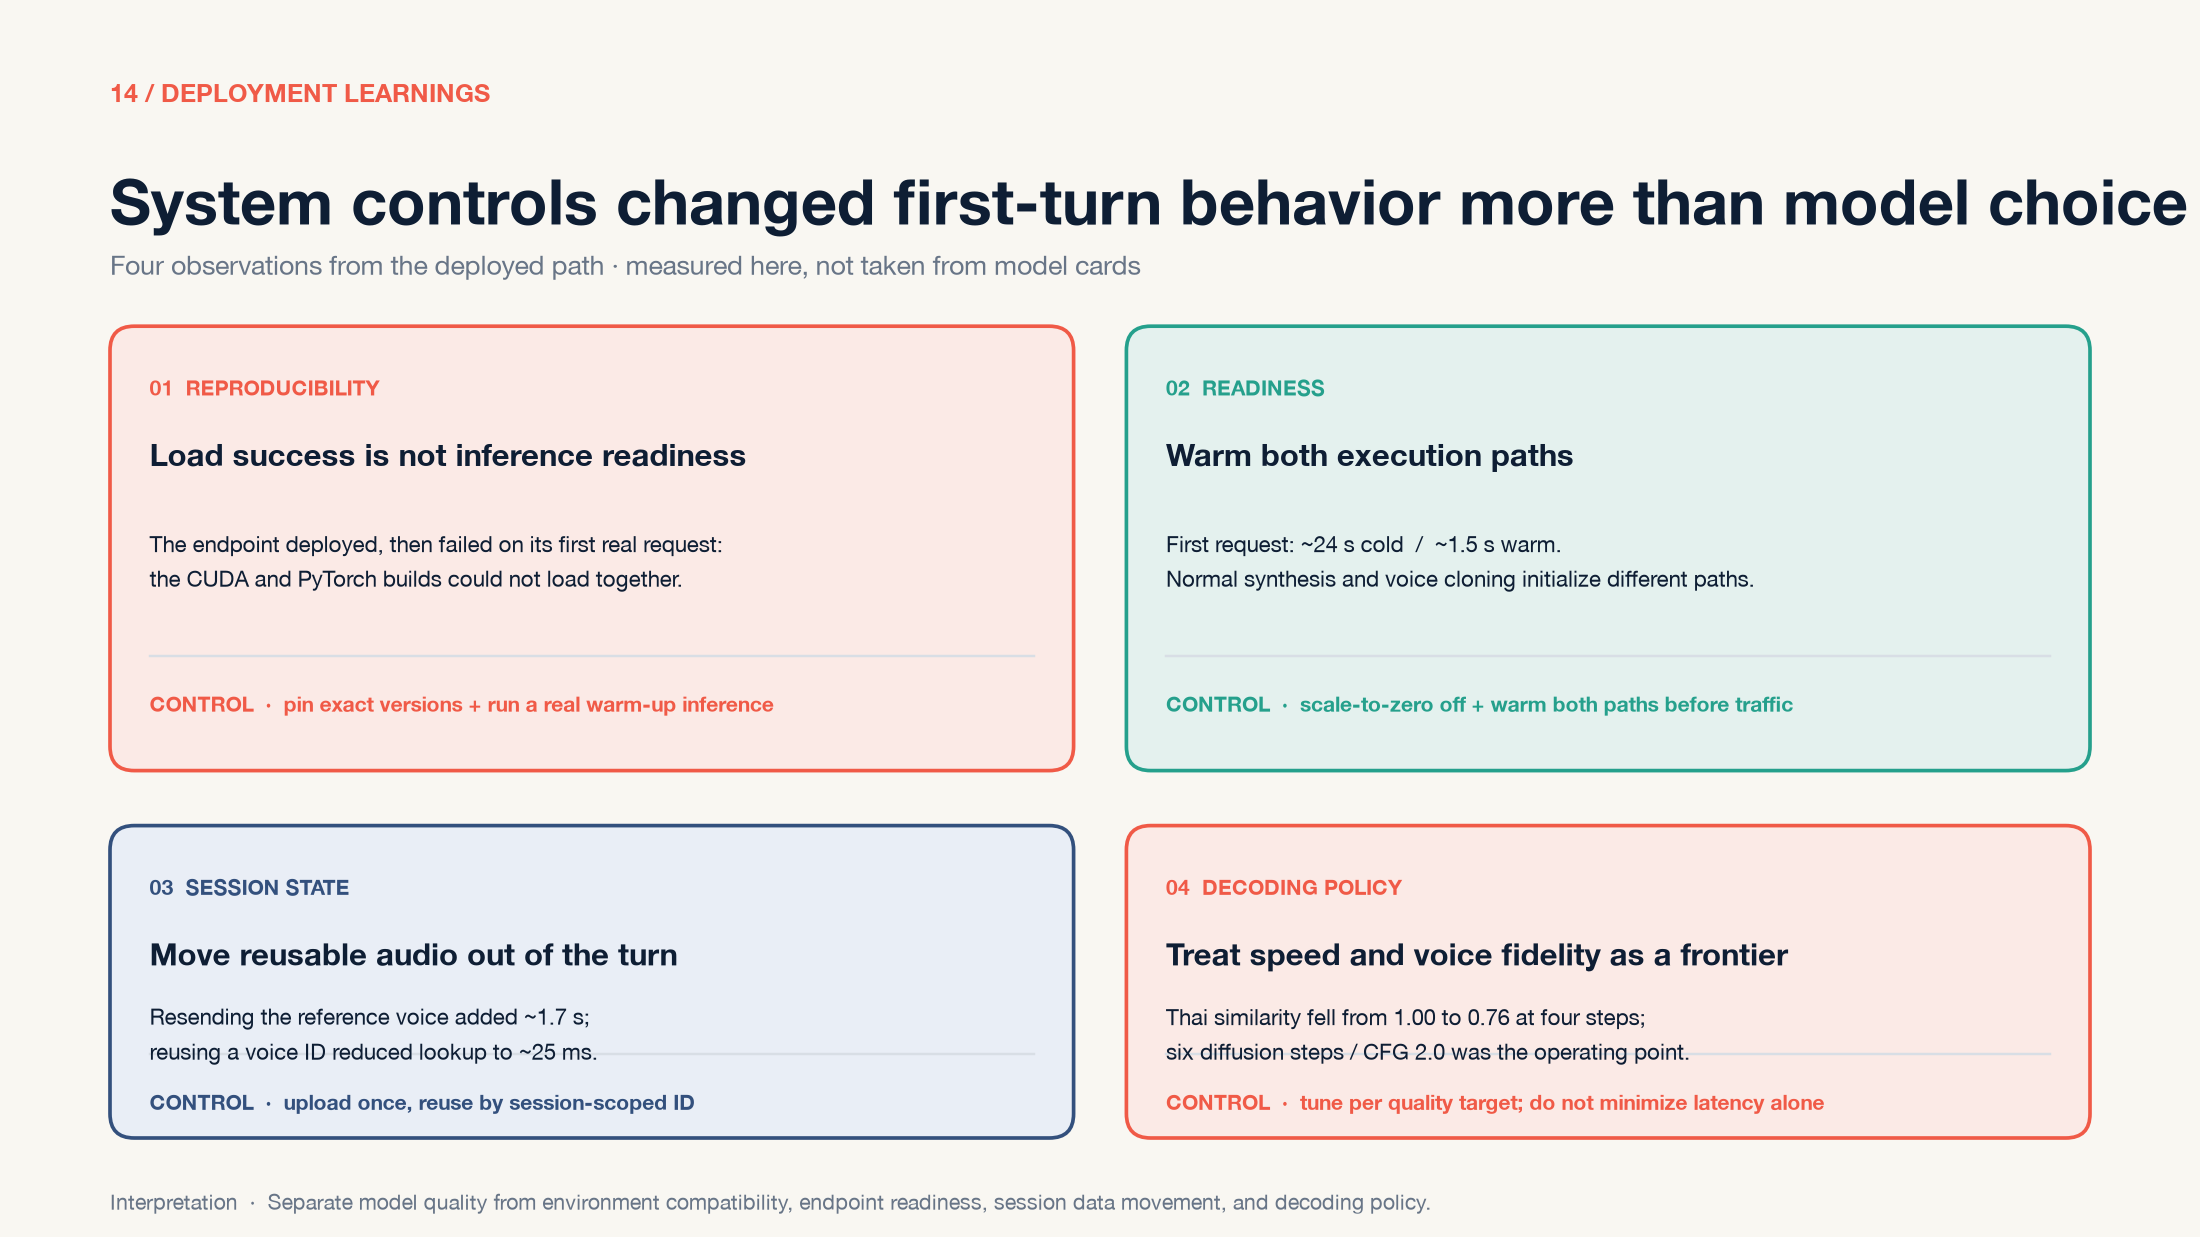
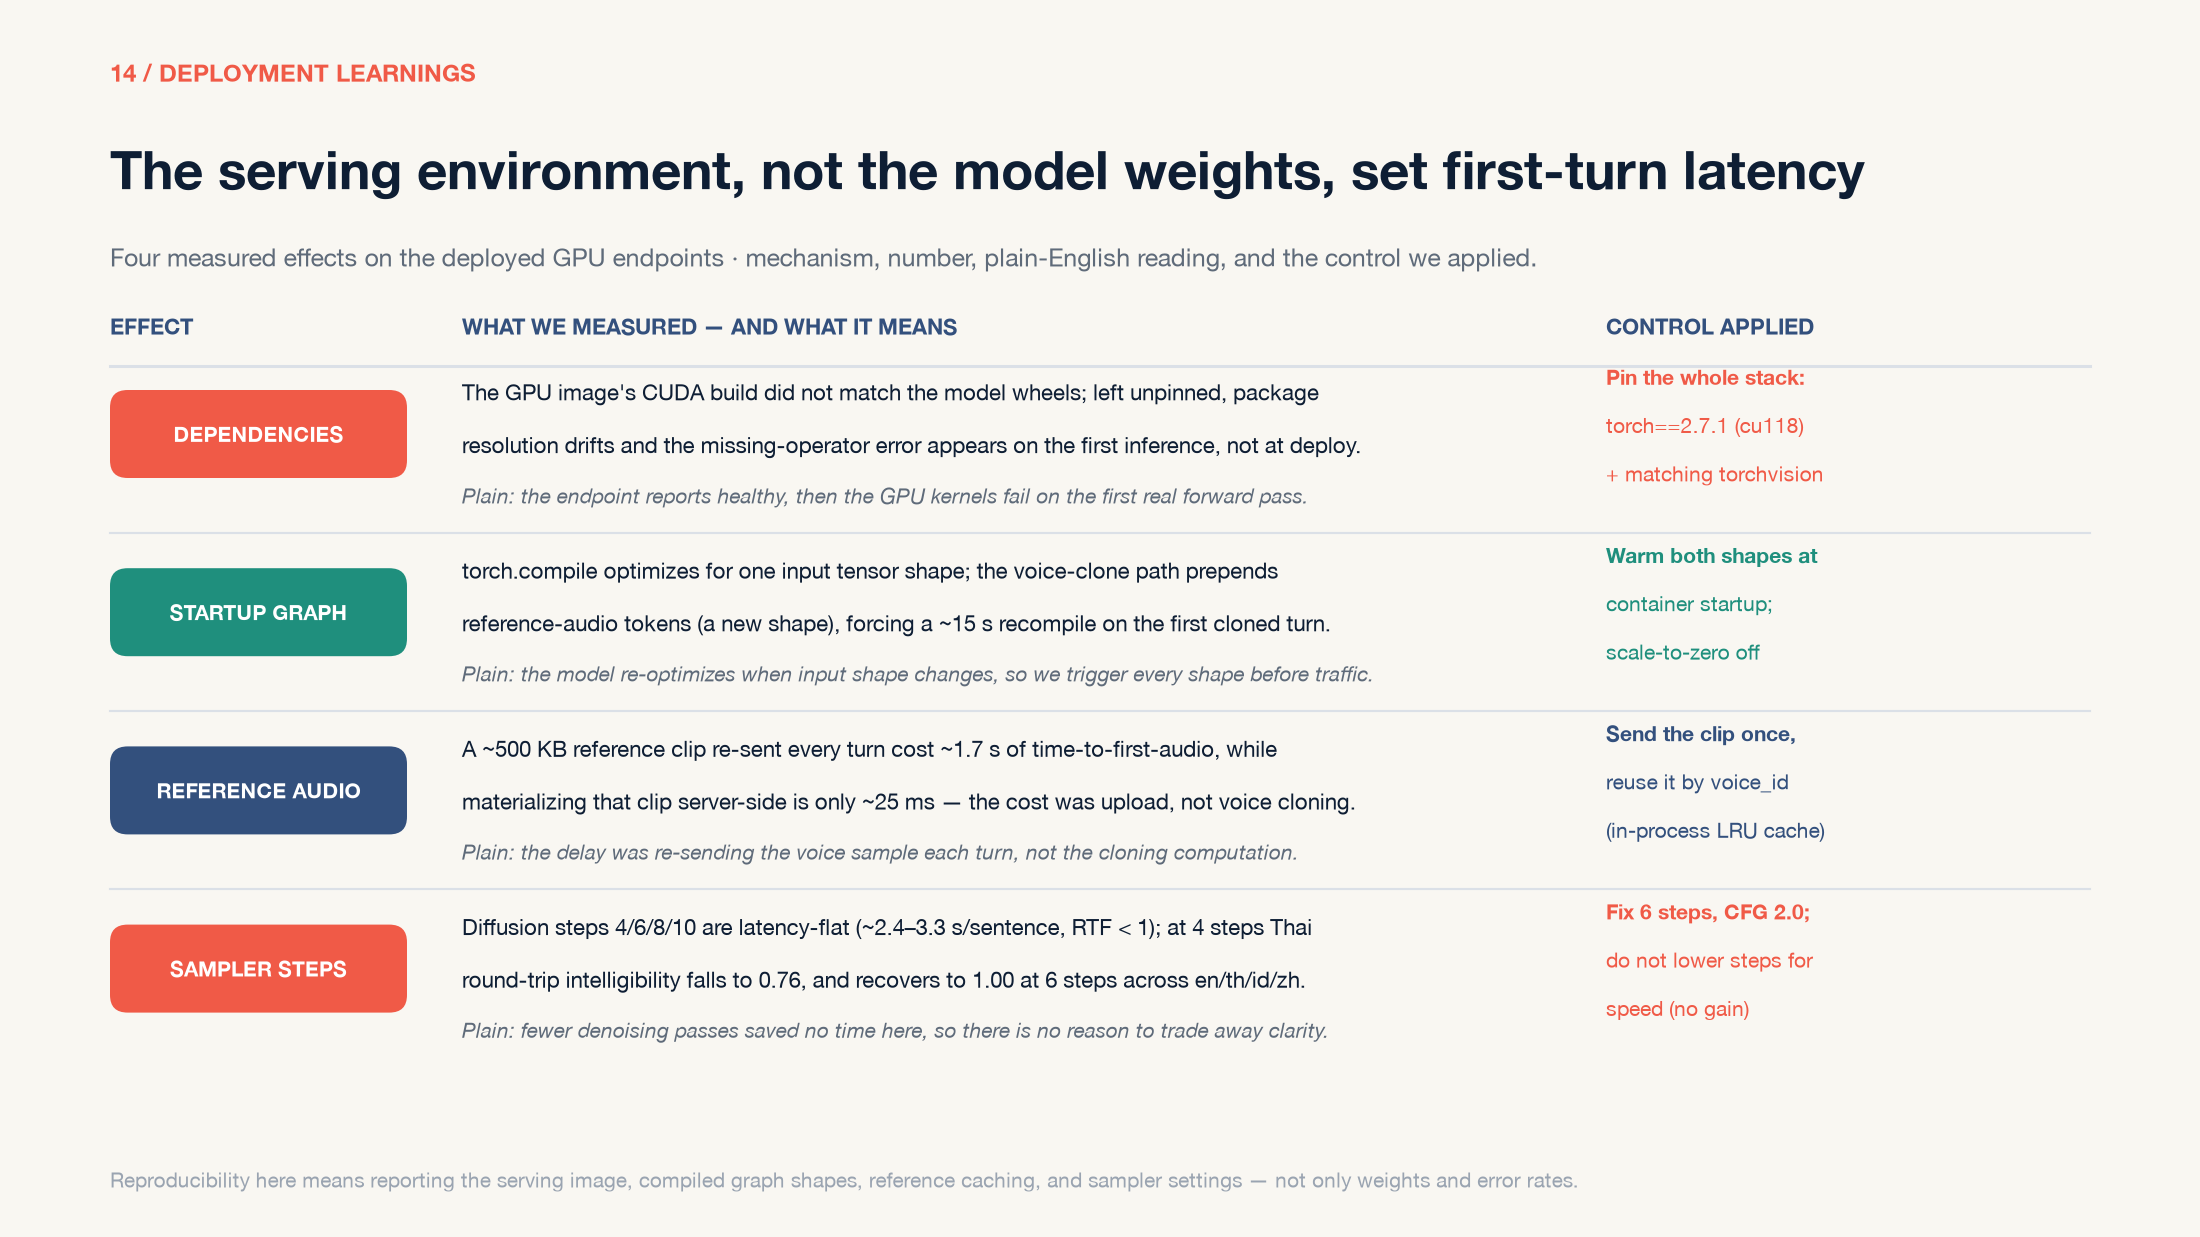
Rewrite deployment and guardrail slides with grounded technical depth

diff --git a/docs/talks/cohere-multilingual-voice/charts/render_operations_guardrails.py b/docs/talks/cohere-multilingual-voice/charts/render_operations_guardrails.py
@@ -1,4 +1,10 @@
-"""Render deployment-learning and guardrail slides for the Cohere research talk."""
+"""Render the deployment-learnings and runtime-guardrail slides.
+
+Both slides use a research-grade table layout: each row names the exact mechanism
+and the measured number, then glosses the technical term in plain English. All
+values are grounded in the repository (config/config.yaml, scripts/ml_asr/*, the
+realtime_api runtime, and docs/blog/powering-genie-with-open-source-voice-models.md).
+"""
 
 from pathlib import Path
 
@@ -8,195 +14,169 @@ matplotlib.use("Agg")
 
 import matplotlib.pyplot as plt
 from matplotlib import font_manager
-from matplotlib.patches import FancyArrowPatch, FancyBboxPatch
+from matplotlib.patches import FancyBboxPatch
 
 OUT = Path(__file__).parent
 FONT = "/System/Library/Fonts/HelveticaNeue.ttc"
 
 INK = "#0e1e34"
 CORAL = "#f05a47"
-TEAL = "#25a08c"
+TEAL = "#1f8f7d"
 STEEL = "#33507d"
 OFF_WHITE = "#f9f7f2"
 WHITE = "#ffffff"
-MUTED = "#687587"
-GRID = "#d8dee5"
-PALE_CORAL = "#fbeae6"
-PALE_TEAL = "#e4f1ee"
-PALE_STEEL = "#e9eef6"
-PALE_GRAY = "#f0f2f4"
-NAVY = "#182a43"
+MUTED = "#5f6b7a"
+FAINT = "#9aa4b1"
+GRID = "#dbe0e7"
+NAVY = "#132132"
 
 font_manager.fontManager.addfont(FONT)
 plt.rcParams["font.family"] = "Helvetica Neue"
 
 
-def base_slide(eyebrow: str, title: str, subtitle: str):
+def base(eyebrow: str, title: str, subtitle: str):
     fig, ax = plt.subplots(figsize=(10, 5.625), dpi=220)
     fig.patch.set_facecolor(OFF_WHITE)
     ax.set_facecolor(OFF_WHITE)
     ax.set_xlim(0, 100)
     ax.set_ylim(0, 56.25)
     ax.axis("off")
-    ax.text(5, 52.7, eyebrow, color=CORAL, fontsize=8.2, fontweight="bold",
+    ax.text(5, 53.6, eyebrow, color=CORAL, fontsize=8.0, fontweight="bold",
             ha="left", va="top")
-    ax.text(5, 48.8, title, color=INK, fontsize=20.5, fontweight="bold",
+    ax.text(5, 50.0, title, color=INK, fontsize=17.5, fontweight="bold",
             ha="left", va="top")
-    ax.text(5, 44.9, subtitle, color=MUTED, fontsize=8.8, ha="left", va="top")
+    ax.text(5, 45.2, subtitle, color=MUTED, fontsize=8.2, ha="left", va="top")
     return fig, ax
 
 
-def card(ax, x, y, w, h, number, heading, evidence, action, color, face):
-    ax.add_patch(
-        FancyBboxPatch(
-            (x, y), w, h,
-            boxstyle="round,pad=0,rounding_size=1.1",
-            linewidth=1.2, edgecolor=color, facecolor=face,
-        )
-    )
-    ax.text(x + 1.8, y + h - 2.2, number, color=color, fontsize=7.0,
-            fontweight="bold", ha="left", va="top")
-    ax.text(x + 1.8, y + h - 5.0, heading, color=INK, fontsize=10.0,
-            fontweight="bold", ha="left", va="top")
-    compact = h < 16
-    evidence_y = y + h - (8.0 if compact else 9.2)
-    divider_y = y + (3.8 if compact else 5.2)
-    action_y = y + (2.2 if compact else 3.6)
-    ax.text(x + 1.8, evidence_y, evidence, color=INK, fontsize=7.3,
-            ha="left", va="top", linespacing=1.35)
-    ax.plot([x + 1.8, x + w - 1.8], [divider_y, divider_y], color=GRID, lw=0.8)
-    ax.text(x + 1.8, action_y, action, color=color, fontsize=6.8,
-            fontweight="bold", ha="left", va="top")
+def chip(ax, x, y, label, color):
+    ax.add_patch(FancyBboxPatch((x, y - 2.0), 13.5, 4.0,
+                                boxstyle="round,pad=0,rounding_size=0.8",
+                                linewidth=0, facecolor=color, zorder=3))
+    ax.text(x + 6.75, y, label, color=WHITE, fontsize=6.8, fontweight="bold",
+            ha="center", va="center", zorder=4)
 
 
 def render_deployment() -> None:
-    fig, ax = base_slide(
+    fig, ax = base(
         "14 / DEPLOYMENT LEARNINGS",
-        "System controls changed first-turn behavior more than model choice",
-        "Four observations from the deployed path · measured here, not taken from model cards",
+        "The serving environment, not the model weights, set first-turn latency",
+        "Four measured effects on the deployed GPU endpoints \u00b7 mechanism, number, plain-English reading, and the control we applied.",
     )
 
-    card(
-        ax, 5, 21.2, 43.8, 20.2,
-        "01  REPRODUCIBILITY", "Load success is not inference readiness",
-        "The endpoint deployed, then failed on its first real request:\n"
-        "the CUDA and PyTorch builds could not load together.",
-        "CONTROL  ·  pin exact versions + run a real warm-up inference",
-        CORAL, PALE_CORAL,
-    )
-    card(
-        ax, 51.2, 21.2, 43.8, 20.2,
-        "02  READINESS", "Warm both execution paths",
-        "First request: ~24 s cold  /  ~1.5 s warm.\n"
-        "Normal synthesis and voice cloning initialize different paths.",
-        "CONTROL  ·  scale-to-zero off + warm both paths before traffic",
-        TEAL, PALE_TEAL,
-    )
-    card(
-        ax, 5, 4.5, 43.8, 14.2,
-        "03  SESSION STATE", "Move reusable audio out of the turn",
-        "Resending the reference voice added ~1.7 s;\n"
-        "reusing a voice ID reduced lookup to ~25 ms.",
-        "CONTROL  ·  upload once, reuse by session-scoped ID",
-        STEEL, PALE_STEEL,
-    )
-    card(
-        ax, 51.2, 4.5, 43.8, 14.2,
-        "04  DECODING POLICY", "Treat speed and voice fidelity as a frontier",
-        "Thai similarity fell from 1.00 to 0.76 at four steps;\n"
-        "six diffusion steps / CFG 2.0 was the operating point.",
-        "CONTROL  ·  tune per quality target; do not minimize latency alone",
-        CORAL, PALE_CORAL,
-    )
+    ax.text(5, 41.4, "EFFECT", color=STEEL, fontsize=7.2, fontweight="bold", va="center")
+    ax.text(21, 41.4, "WHAT WE MEASURED \u2014 AND WHAT IT MEANS", color=STEEL,
+            fontsize=7.2, fontweight="bold", va="center")
+    ax.text(73, 41.4, "CONTROL APPLIED", color=STEEL, fontsize=7.2,
+            fontweight="bold", va="center")
+    ax.plot([5, 95], [39.6, 39.6], color=GRID, lw=1.0)
 
-    ax.text(
-        5, 1.6,
-        "Interpretation  ·  Separate model quality from environment compatibility, endpoint readiness, session data movement, and decoding policy.",
-        color=MUTED, fontsize=7.0, ha="left", va="center",
-    )
+    rows = [
+        ("DEPENDENCIES", CORAL,
+         "The GPU image's CUDA build did not match the model wheels; left unpinned, package",
+         "resolution drifts and the missing-operator error appears on the first inference, not at deploy.",
+         "Plain: the endpoint reports healthy, then the GPU kernels fail on the first real forward pass.",
+         ["Pin the whole stack:", "torch==2.7.1 (cu118)", "+ matching torchvision"]),
+        ("STARTUP GRAPH", TEAL,
+         "torch.compile optimizes for one input tensor shape; the voice-clone path prepends",
+         "reference-audio tokens (a new shape), forcing a ~15 s recompile on the first cloned turn.",
+         "Plain: the model re-optimizes when input shape changes, so we trigger every shape before traffic.",
+         ["Warm both shapes at", "container startup;", "scale-to-zero off"]),
+        ("REFERENCE AUDIO", STEEL,
+         "A ~500 KB reference clip re-sent every turn cost ~1.7 s of time-to-first-audio, while",
+         "materializing that clip server-side is only ~25 ms \u2014 the cost was upload, not voice cloning.",
+         "Plain: the delay was re-sending the voice sample each turn, not the cloning computation.",
+         ["Send the clip once,", "reuse it by voice_id", "(in-process LRU cache)"]),
+        ("SAMPLER STEPS", CORAL,
+         "Diffusion steps 4/6/8/10 are latency-flat (~2.4\u20133.3 s/sentence, RTF < 1); at 4 steps Thai",
+         "round-trip intelligibility falls to 0.76, and recovers to 1.00 at 6 steps across en/th/id/zh.",
+         "Plain: fewer denoising passes saved no time here, so there is no reason to trade away clarity.",
+         ["Fix 6 steps, CFG 2.0;", "do not lower steps for", "speed (no gain)"]),
+    ]
+
+    top = 37.8
+    row_h = 8.1
+    for i, (eff, color, l1, l2, plain, ctrl) in enumerate(rows):
+        cy = top - i * row_h
+        chip(ax, 5, cy - 1.3, eff, color)
+        ax.text(21, cy + 0.6, l1, color=INK, fontsize=7.3, va="center")
+        ax.text(21, cy - 1.8, l2, color=INK, fontsize=7.3, va="center")
+        ax.text(21, cy - 4.1, plain, color=MUTED, fontsize=6.9, va="center",
+                fontstyle="italic")
+        for j, c in enumerate(ctrl):
+            ax.text(73, cy + 1.3 - j * 2.2, c, color=color, fontsize=6.9,
+                    fontweight="bold" if j == 0 else "normal", va="center")
+        if i < len(rows) - 1:
+            ax.plot([5, 95], [cy - 5.8, cy - 5.8], color=GRID, lw=0.7)
+
+    ax.text(5, 2.6,
+            "Reproducibility here means reporting the serving image, compiled graph shapes, "
+            "reference caching, and sampler settings \u2014 not only weights and error rates.",
+            color=FAINT, fontsize=6.8, va="center")
     plt.subplots_adjust(left=0, right=1, top=1, bottom=0)
     fig.savefig(OUT / "deployment_learnings_research.png", facecolor=OFF_WHITE, dpi=220)
     plt.close(fig)
 
 
-def stage(ax, x, y, w, h, label, title, detail, color, face):
-    ax.add_patch(
-        FancyBboxPatch(
-            (x, y), w, h,
-            boxstyle="round,pad=0,rounding_size=1.2",
-            linewidth=1.3, edgecolor=color, facecolor=face, zorder=3,
-        )
-    )
-    ax.text(x + 1.4, y + h - 1.8, label, color=color, fontsize=6.2,
-            fontweight="bold", ha="left", va="top", zorder=5)
-    ax.text(x + 1.4, y + h - 4.5, title, color=INK, fontsize=8.8,
-            fontweight="bold", ha="left", va="top", zorder=5)
-    ax.text(x + 1.4, y + h - 8.3, detail, color=MUTED, fontsize=6.6,
-            ha="left", va="top", linespacing=1.35, zorder=5)
-
-
 def render_guardrails() -> None:
-    fig, ax = base_slide(
+    fig, ax = base(
         "15 / GUARDRAILS IN THE TOOL PATH",
-        "The runtime—not the prompt—decides what the agent may do",
-        "Implemented enforcement points on the realtime voice path · code, policy state, and platform identity",
+        "Enforcement lives in the runtime, not in the prompt",
+        "Each stage is a code, policy, or identity check on the realtime voice path \u00b7 file-level references in speaker notes.",
     )
 
-    xs = [5, 23.5, 42, 60.5, 79]
-    width, y, height = 16, 27.0, 14.2
-    stages = [
-        ("01  ROUTE", "Policy gate",
-         "Allowed capability\n+ confidence ≥ 0.80\n+ conversation owner", TEAL, PALE_TEAL),
-        ("02  SCOPE", "Limit tools",
-         "Only tools owned by\nthe approved capability\nreach the model", STEEL, PALE_STEEL),
-        ("03  AUTHORIZE", "User-bound access",
-         "Forwarded user token;\nGenie and workspace\ncalls fail closed", TEAL, PALE_TEAL),
-        ("04  ACT", "Confirm mutation",
-         "Offer open + explicit\nconfirmation; effect gate\nrechecks before execution", CORAL, PALE_CORAL),
-        ("05  ANSWER", "Cite or stay silent",
-         "No factual speech\nwithout tool evidence;\ntyped refusal instead", STEEL, PALE_STEEL),
+    ax.text(5, 41.4, "STAGE", color=STEEL, fontsize=7.2, fontweight="bold", va="center")
+    ax.text(20, 41.4, "RUNTIME MECHANISM (enforced in code)", color=STEEL,
+            fontsize=7.2, fontweight="bold", va="center")
+    ax.text(66, 41.4, "IN PLAIN ENGLISH", color=STEEL, fontsize=7.2,
+            fontweight="bold", va="center")
+    ax.plot([5, 95], [39.6, 39.6], color=GRID, lw=1.0)
+
+    rows = [
+        ("ROUTE", TEAL, "Navigation policy gate",
+         "capability admitted only at confidence \u2265 0.80, on the profile allowlist, owner-checked",
+         "The model proposes an intent; separate code allows or blocks it."),
+        ("SCOPE", STEEL, "Capability-scoped tools",
+         "the LLM is offered only the tool set that the admitted capability owns",
+         "It cannot call a tool that was not unlocked for this task."),
+        ("AUTHORIZE", TEAL, "On-behalf-of (OBO) token",
+         "Genie and workspace calls run as the caller's forwarded token; a missing token fails closed",
+         "Data is read as the user, with the user's permissions \u2014 or not at all."),
+        ("ACT", CORAL, "confirm_mutate effect gate",
+         "a billing write needs an open offer + explicit confirmation, re-checked when the tool runs",
+         "It cannot change an account on the model's say-so alone."),
+        ("ANSWER", STEEL, "Cite-or-silence composer",
+         "factual speech requires a tabular citation or attributed source text, otherwise a typed refusal",
+         "With no data behind a number, it declines instead of guessing."),
     ]
-    for i, (x, item) in enumerate(zip(xs, stages)):
-        stage(ax, x, y, width, height, *item)
-        if i < len(stages) - 1:
-            ax.add_patch(
-                FancyArrowPatch(
-                    (x + width + 0.4, y + height / 2),
-                    (xs[i + 1] - 0.4, y + height / 2),
-                    arrowstyle="-|>", mutation_scale=10, linewidth=1.3,
-                    color=MUTED, zorder=2,
-                )
-            )
 
-    ax.add_patch(
-        FancyBboxPatch(
-            (5, 16.5), 90, 7.4,
-            boxstyle="round,pad=0,rounding_size=1.1",
-            linewidth=0, facecolor=NAVY,
-        )
-    )
-    ax.text(7, 21.8, "BOUNDED + OBSERVABLE", color=CORAL, fontsize=6.8,
-            fontweight="bold", ha="left", va="top")
-    ax.text(
-        7, 18.6,
-        "Maximum 3 tool iterations  ·  route timeouts  ·  stale/noise turns discarded  ·  each guard reports pass, fire, or not evaluated",
-        color=WHITE, fontsize=7.7, ha="left", va="top",
-    )
+    top = 37.6
+    row_h = 5.3
+    for i, (stage, color, term, detail, plain) in enumerate(rows):
+        cy = top - i * row_h
+        chip(ax, 5, cy, stage, color)
+        ax.text(20, cy + 1.1, term, color=INK, fontsize=8.0, fontweight="bold", va="center")
+        ax.text(20, cy - 1.6, detail, color=MUTED, fontsize=6.7, va="center")
+        ax.text(66, cy, plain, color=INK, fontsize=6.9, va="center")
+        if i < len(rows) - 1:
+            ax.plot([5, 95], [cy - 2.65, cy - 2.65], color=GRID, lw=0.7)
 
-    ax.text(5, 12.9, "ENFORCED NOW", color=TEAL, fontsize=7.0,
-            fontweight="bold", ha="left", va="top")
-    ax.text(
-        5, 10.3,
-        "Capability scoping  ·  user authorization  ·  billing confirmation  ·  evidence requirement  ·  execution budgets",
-        color=INK, fontsize=7.4, ha="left", va="top",
-    )
-    ax.text(5, 6.7, "NOT YET CLAIMED", color=CORAL, fontsize=7.0,
-            fontweight="bold", ha="left", va="top")
-    ax.text(
-        5, 4.1,
-        "Realtime PII/PCI redaction  ·  downstream prompt-injection blocking  ·  trace-retention TTL  ·  pre-TTS output guard",
-        color=INK, fontsize=7.4, ha="left", va="top",
-    )
+    ax.text(5, 9.9,
+            "Bounded + observable:  \u2264 3 tool iterations  \u00b7  per-route timeouts  \u00b7  "
+            "stale / empty / noise turns dropped  \u00b7  every guard logs pass / fire / not-evaluated per turn.",
+            color=MUTED, fontsize=6.9, va="center")
+
+    ax.add_patch(FancyBboxPatch((5, 1.6), 90, 6.0,
+                                boxstyle="round,pad=0,rounding_size=0.8",
+                                linewidth=0, facecolor=NAVY, zorder=2))
+    ax.text(7, 5.6, "ENFORCED NOW", color=TEAL, fontsize=6.8, fontweight="bold", va="center")
+    ax.text(24.5, 5.6,
+            "capability scoping \u00b7 OBO authorization \u00b7 confirm_mutate \u00b7 cite-or-silence \u00b7 iteration + turn budgets",
+            color=WHITE, fontsize=6.9, va="center")
+    ax.text(7, 3.2, "NOT YET CLAIMED", color=CORAL, fontsize=6.8, fontweight="bold", va="center")
+    ax.text(26, 3.2,
+            "realtime PII/PCI redaction \u00b7 downstream prompt-injection filtering \u00b7 trace-retention TTL \u00b7 pre-TTS output guard",
+            color="#d7dee8", fontsize=6.9, va="center")
 
     plt.subplots_adjust(left=0, right=1, top=1, bottom=0)
     fig.savefig(OUT / "runtime_guardrails.png", facecolor=OFF_WHITE, dpi=220)
